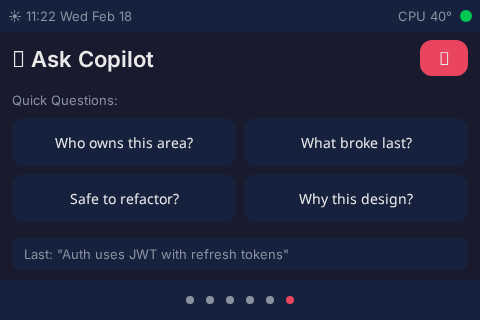
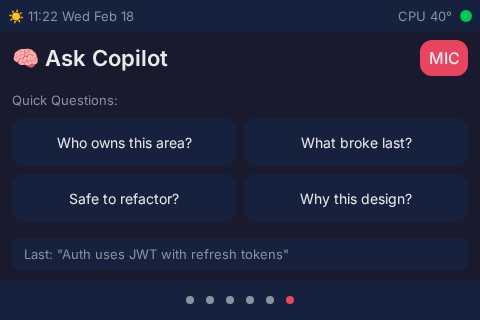
Fix emoji rendering in screenshots, replace ASCII diagrams with Mermaid
- Install Noto Color Emoji font support so all emoji (🔥🚨🔘🧠🚀🔧✅🟡)
  render correctly in screenshots instead of showing as squares
- Fix CI diagnosis layout so buttons are fully visible
- Replace ASCII wiring diagrams (LED strip, button, buzzer) with Mermaid
- Replace ASCII architecture diagram with Mermaid flowchart
- Convert GPIO pinout from ASCII art to a proper Markdown table

diff --git a/README.md b/README.md
@@ -96,51 +96,53 @@ This guide assumes **zero electronics experience**.
 
 ### 🗺 GPIO Pin Reference
 
-```
-                    Raspberry Pi 5 GPIO Header
-                    (looking at the Pi with USB ports facing you)
+| Left Function | Pin | Pin | Right Function |
+|---:|:---:|:---:|:---|
+| **3.3V** | (1) | (2) | **5V** |
+| GPIO 2 (SDA) | (3) | (4) | **5V** |
+| GPIO 3 (SCL) | (5) | (6) | **GND** |
+| GPIO 4 | (7) | (8) | GPIO 14 |
+| **GND** | (9) | (10) | GPIO 15 |
+| ⭐ **GPIO 17 — BUTTON** | (11) | (12) | ⭐ **GPIO 18 — LEDs (PWM)** |
+| GPIO 27 | (13) | (14) | **GND** |
+| GPIO 22 | (15) | (16) | GPIO 23 |
+| **3.3V** | (17) | (18) | GPIO 24 |
+| GPIO 10 (SPI MOSI) | (19) | (20) | **GND** |
+| GPIO 9 (SPI MISO) | (21) | (22) | GPIO 25 |
+| GPIO 11 (SPI SCLK) | (23) | (24) | GPIO 8 |
+| **GND** | (25) | (26) | GPIO 7 |
+| GPIO 0 | (27) | (28) | GPIO 1 |
+| GPIO 5 | (29) | (30) | **GND** |
+| GPIO 6 | (31) | (32) | GPIO 12 |
+| ⭐ **GPIO 13 — BUZZER** | (33) | (34) | **GND** |
+| GPIO 19 | (35) | (36) | GPIO 16 |
+| GPIO 26 | (37) | (38) | GPIO 20 |
+| **GND** | (39) | (40) | GPIO 21 |
 
-                3.3V  (1) (2)  5V          ← Power pins
-       (SDA) GPIO 2  (3) (4)  5V
-       (SCL) GPIO 3  (5) (6)  GND         ← Ground
-             GPIO 4  (7) (8)  GPIO 14
-                GND  (9) (10) GPIO 15
-   ★ BUTTON GPIO 17 (11) (12) GPIO 18 ★ LEDs (PWM)
-            GPIO 27 (13) (14) GND
-            GPIO 22 (15) (16) GPIO 23
-               3.3V (17) (18) GPIO 24
-    (SPI MOSI) GPIO 10 (19) (20) GND
-    (SPI MISO) GPIO 9  (21) (22) GPIO 25
-    (SPI SCLK) GPIO 11 (23) (24) GPIO 8
-                GND (25) (26) GPIO 7
-             GPIO 0 (27) (28) GPIO 1
-             GPIO 5 (29) (30) GND
-             GPIO 6 (31) (32) GPIO 12
-  ★ BUZZER GPIO 13 (33) (34) GND
-            GPIO 19 (35) (36) GPIO 16
-            GPIO 26 (37) (38) GPIO 20
-                GND (39) (40) GPIO 21
-```
+> Looking at the Pi 5 with USB ports facing you. ⭐ = DevDash pins.
 
 ### Component 1: NeoPixel LED Strip (WS2812B)
 
 Ambient LEDs that glow different colors based on repo status — visible from across the room.
 
-```
-    Raspberry Pi                470Ω Resistor         WS2812B LED Strip
-    ┌──────────┐               ┌───┐                 ┌──────────────────┐
-    │          │               │   │                 │                  │
-    │  GPIO 18 ├──────────────►│   ├────────────────►│ DIN (Data In)    │
-    │  (pin 12)│               │   │                 │                  │
-    │          │               └───┘                 │                  │
-    │      5V  ├─────────────────────────────────────►│ 5V (Red wire)    │
-    │  (pin 2) │          ┌──────────────┐           │                  │
-    │          │          │  1000μF Cap   │           │                  │
-    │          │          │  + ──── –     │           │                  │
-    │     GND  ├──────┬───┤──────────────├───────────►│ GND (White wire) │
-    │  (pin 6) │      │   └──────────────┘           │                  │
-    │          │      │                               └──────────────────┘
-    └──────────┘      └── (All grounds must connect together!)
+```mermaid
+graph LR
+    Pi["🟣 Raspberry Pi"] -- "GPIO 18 (pin 12)" --> R["470Ω Resistor"]
+    R --> DIN["DIN (Data In)"]
+    Pi -- "5V (pin 2)" --> V5["5V (Red wire)"]
+    Pi -- "GND (pin 6)" --> GND["GND (White wire)"]
+    GND -.-> Cap["1000μF Cap ±"]
+    Cap -.-> V5
+
+    subgraph WS2812B LED Strip
+        DIN
+        V5
+        GND
+    end
+
+    style Pi fill:#4B0082,color:#fff
+    style R fill:#555,color:#fff
+    style Cap fill:#555,color:#fff
 ```
 
 **Wiring steps:**
@@ -184,22 +186,18 @@ print("✅ LED test passed!")
 
 Physical button that triggers the deploy flow with Copilot safety checks.
 
-```
-    Raspberry Pi               Breadboard
-    ┌──────────┐              ┌─────────────────────────┐
-    │          │              │                         │
-    │  3.3V    ├──────────────┤──── [Button Leg A]      │
-    │  (pin 1) │              │          │              │
-    │          │              │     [ BUTTON ]          │
-    │          │              │          │              │
-    │ GPIO 17  ├──────────────┤──── [Button Leg B] ──┐  │
-    │ (pin 11) │              │                      │  │
-    │          │              │                 ┌────┤  │
-    │          │              │                 │10kΩ│  │
-    │          │              │                 └────┤  │
-    │     GND  ├──────────────┤─────────────────────┘  │
-    │  (pin 6) │              │                         │
-    └──────────┘              └─────────────────────────┘
+```mermaid
+graph LR
+    Pi["🟣 Raspberry Pi"] -- "3.3V (pin 1)" --> A["Button Leg A"]
+    A --- BTN["⏺ BUTTON"]
+    BTN --- B["Button Leg B"]
+    B -- "GPIO 17 (pin 11)" --> Pi
+    B --- R["10kΩ Resistor"]
+    R -- "GND (pin 6)" --> Pi
+
+    style Pi fill:#4B0082,color:#fff
+    style BTN fill:#c0392b,color:#fff
+    style R fill:#555,color:#fff
 ```
 
 **How it works:** The 10kΩ resistor "pulls down" GPIO 17 to GND when the button isn't pressed (reads LOW). Pressing the button connects GPIO 17 to 3.3V (reads HIGH).
@@ -245,16 +243,15 @@ finally:
 
 Audio alerts for critical events — different tones for different event types.
 
-```
-    Raspberry Pi               Breadboard
-    ┌──────────┐              ┌─────────────────────┐
-    │          │              │                     │
-    │ GPIO 13  ├──────────────┤──── Buzzer (+)      │
-    │ (pin 33) │              │      long leg       │
-    │          │              │    [ BUZZER ]        │
-    │     GND  ├──────────────┤──── Buzzer (–)      │
-    │ (pin 34) │              │      short leg      │
-    └──────────┘              └─────────────────────┘
+```mermaid
+graph LR
+    Pi["🟣 Raspberry Pi"] -- "GPIO 13 (pin 33)" --> Pos["Buzzer + (long leg)"]
+    Pos --- BUZ["🔔 BUZZER"]
+    BUZ --- Neg["Buzzer − (short leg)"]
+    Neg -- "GND (pin 34)" --> Pi
+
+    style Pi fill:#4B0082,color:#fff
+    style BUZ fill:#2980b9,color:#fff
 ```
 
 **Only 2 wires — no resistor needed!** Long leg (+) → GPIO 13, short leg (–) → GND.
@@ -342,27 +339,38 @@ Copy `config.example.yaml` to `config.yaml` and set:
 
 DevDash uses a single `CopilotClient` with multiple specialized AI sessions:
 
-```
-┌────────────────────────────────────────────────────────┐
-│                    DevDash App                         │
-│  ┌──────────┐  ┌──────────┐  ┌──────────┐             │
-│  │  PyGame   │  │  GitHub   │  │  GPIO    │             │
-│  │  Touch UI │  │  Service  │  │ Hardware │             │
-│  └─────┬─────┘  └─────┬─────┘  └─────┬────┘            │
-│        │              │              │                  │
-│  ┌─────▼──────────────▼──────────────▼────────────┐    │
-│  │              Copilot SDK Service                │    │
-│  │  ┌──────┐ ┌──────┐ ┌──────┐ ┌──────┐ ┌──────┐ │    │
-│  │  │  CI  │ │  PR  │ │Stand-│ │Deploy│ │Contxt│ │    │
-│  │  │Agent │ │Agent │ │  up  │ │Agent │ │Keepr │ │    │
-│  │  └──────┘ └──────┘ └──────┘ └──────┘ └──────┘ │    │
-│  │         Single CopilotClient                    │    │
-│  └─────────────────────────────────────────────────┘    │
-│        │                                                │
-│  ┌─────▼──────┐                                        │
-│  │   SQLite   │ Cache + AI Memory + History            │
-│  └────────────┘                                        │
-└────────────────────────────────────────────────────────┘
+```mermaid
+graph TB
+    subgraph DevDash App
+        UI["PyGame Touch UI"]
+        GH["GitHub Service"]
+        HW["GPIO Hardware"]
+
+        UI --> SDK
+        GH --> SDK
+        HW --> SDK
+
+        subgraph SDK["Copilot SDK Service — Single CopilotClient"]
+            CI["CI Agent"]
+            PR["PR Agent"]
+            SU["Standup"]
+            DE["Deploy Agent"]
+            CK["Context Keeper"]
+        end
+
+        SDK --> DB["SQLite — Cache + AI Memory + History"]
+    end
+
+    style SDK fill:#0f3460,color:#eaeaea
+    style UI fill:#16213e,color:#eaeaea
+    style GH fill:#16213e,color:#eaeaea
+    style HW fill:#16213e,color:#eaeaea
+    style DB fill:#16213e,color:#eaeaea
+    style CI fill:#1a1a2e,color:#eaeaea
+    style PR fill:#1a1a2e,color:#eaeaea
+    style SU fill:#1a1a2e,color:#eaeaea
+    style DE fill:#1a1a2e,color:#eaeaea
+    style CK fill:#1a1a2e,color:#eaeaea
 ```
 
 - **CI Diagnosis Agent** — Custom tools for log fetching, code reading, PR creation
